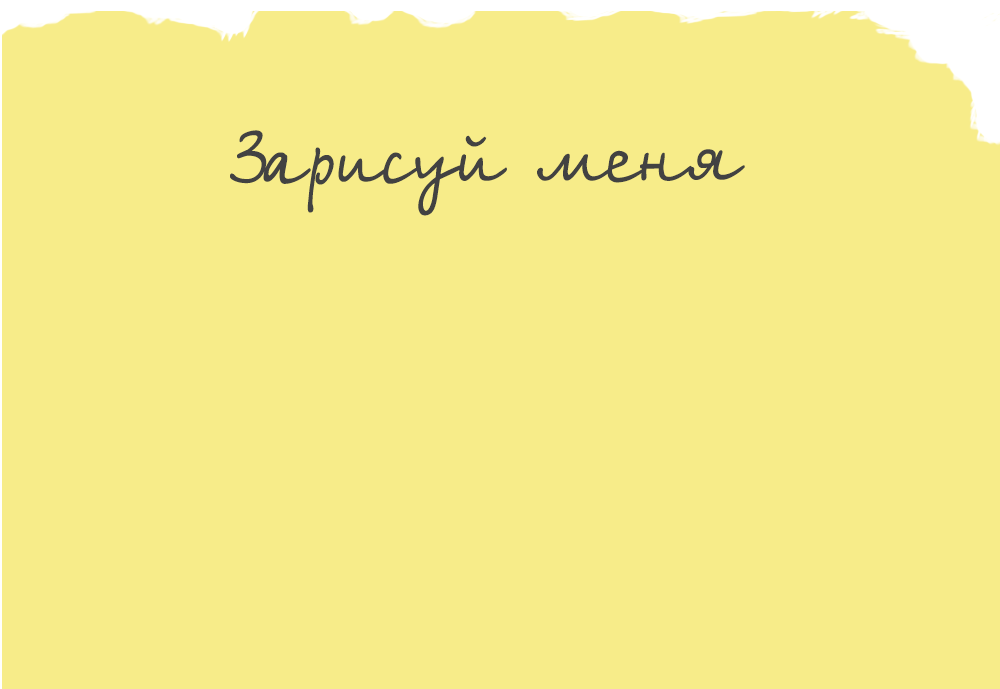
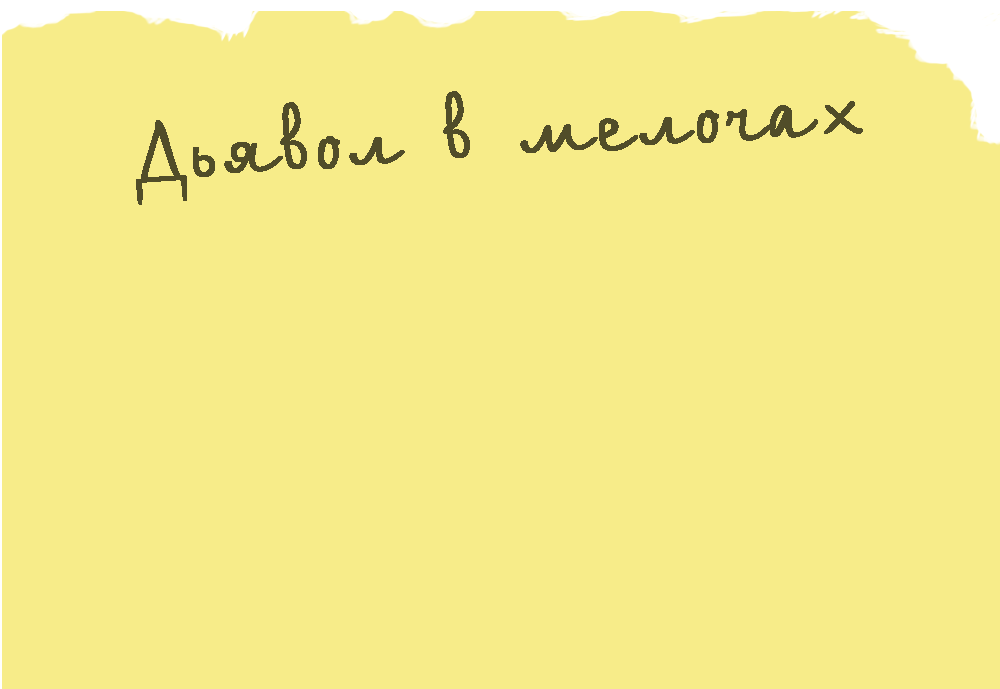
Update tutorial (without clue)
There is a big part was made with tutorial mechanics.

Changed region(s): [[0.124, 0.1219, 0.496, 0.3353], [0.527, 0.1524, 0.868, 0.2743]]

diff --git a/crypto-game/Assets/Scripts/lvl1-hints/textManager-lvl1/TextChangeManager.cs b/crypto-game/Assets/Scripts/lvl1-hints/textManager-lvl1/TextChangeManager.cs
@@ -1,0 +1,29 @@
+using System.Collections;
+using System.Collections.Generic;
+using UnityEngine;
+using UnityEngine.UI;
+
+public class TextChangeManager : MonoBehaviour
+{
+
+    public Text txtHint;
+    public Animator animForHint;
+
+    int cHint = 0;    
+
+    public void onPaperClickChange()
+    {
+        if(cHint < 1)
+        {
+            txtHint.text = "Хмм.. Скрытое послание \nДавайте используем лупу чтобы обнаружить мелочи. \nБудьте внимательны!";
+            animForHint.Play("showHint");
+            cHint++;
+        }
+       
+    }
+    public void onClueFoundChange()
+    {
+            txtHint.text = "***CLUE TEXT***";
+            animForHint.Play("showHint");   
+    }
+}

diff --git a/crypto-game/Assets/Scripts/lvl1-hints/triggerHint.cs b/crypto-game/Assets/Scripts/lvl1-hints/triggerHint.cs
@@ -12,6 +12,8 @@ public class triggerHint : MonoBehaviour
     Animator blick_vis;
     AudioSource blick_aud;
     bool onTrigTimer = false;
+    //for textChangeManager
+    public TextChangeManager txtMngr;
 
     public void OnTriggerEnter2D(Collider2D collision)
     {
@@ -47,6 +49,7 @@ public class triggerHint : MonoBehaviour
             {
                 onTrigTimer = false;
                 blick_vis.Play("blick_hide");
+                txtMngr.onClueFoundChange();
 
             }
         }

diff --git a/crypto-game/Assets/Scripts/paper_far_part/paperShowUpTImer.cs b/crypto-game/Assets/Scripts/paper_far_part/paperShowUpTImer.cs
@@ -22,11 +22,6 @@ public class paperShowUpTImer : MonoBehaviour
     bool btnClicked = false;
     bool paperHoldState = false;
 
-    private void Start()
-    {
-           
-    }
-
     void Update()
     {
         if (btnClicked)
